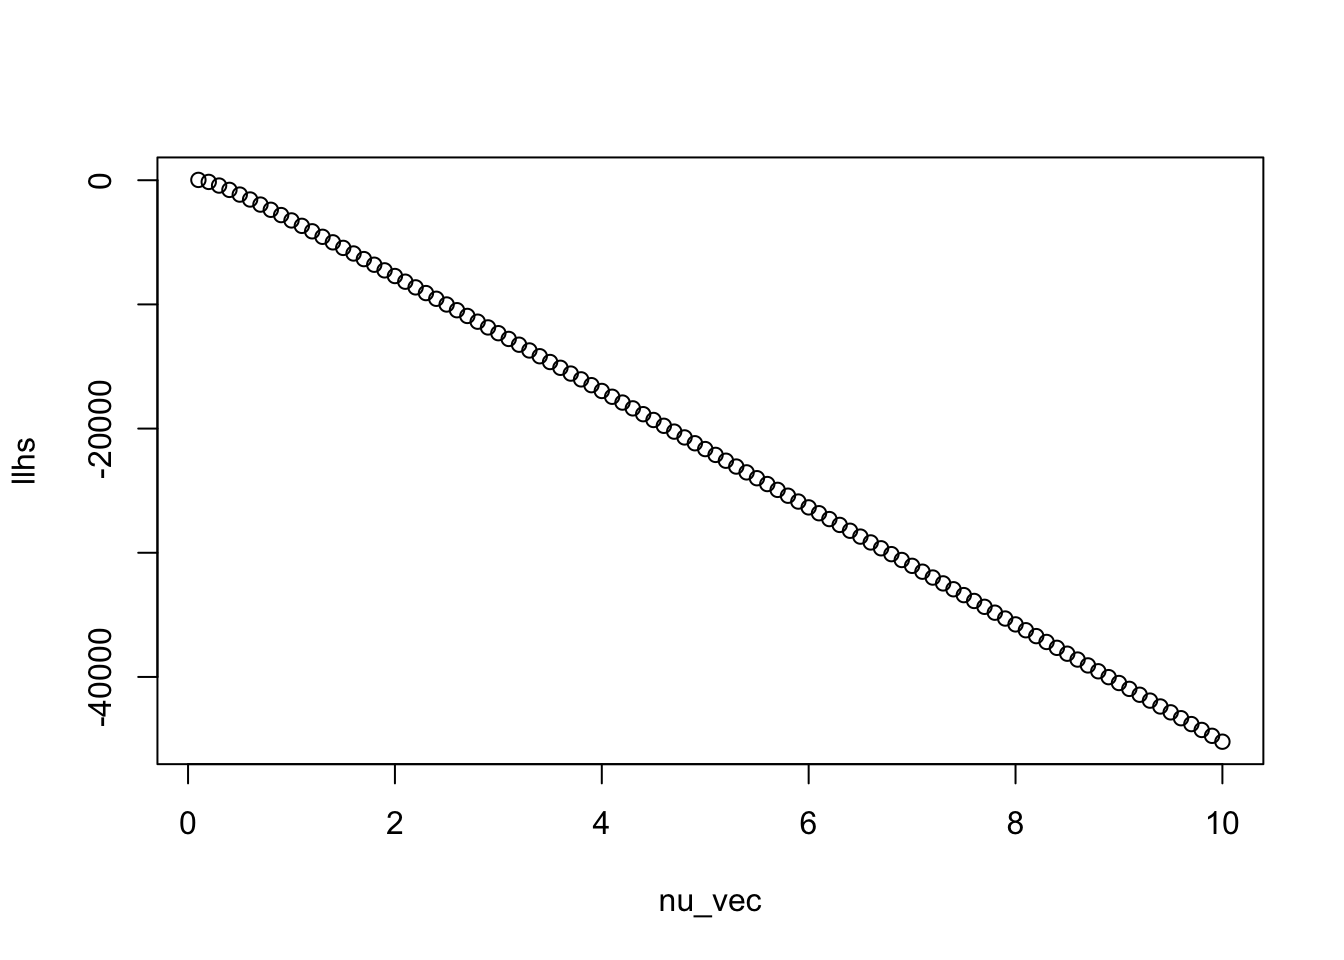
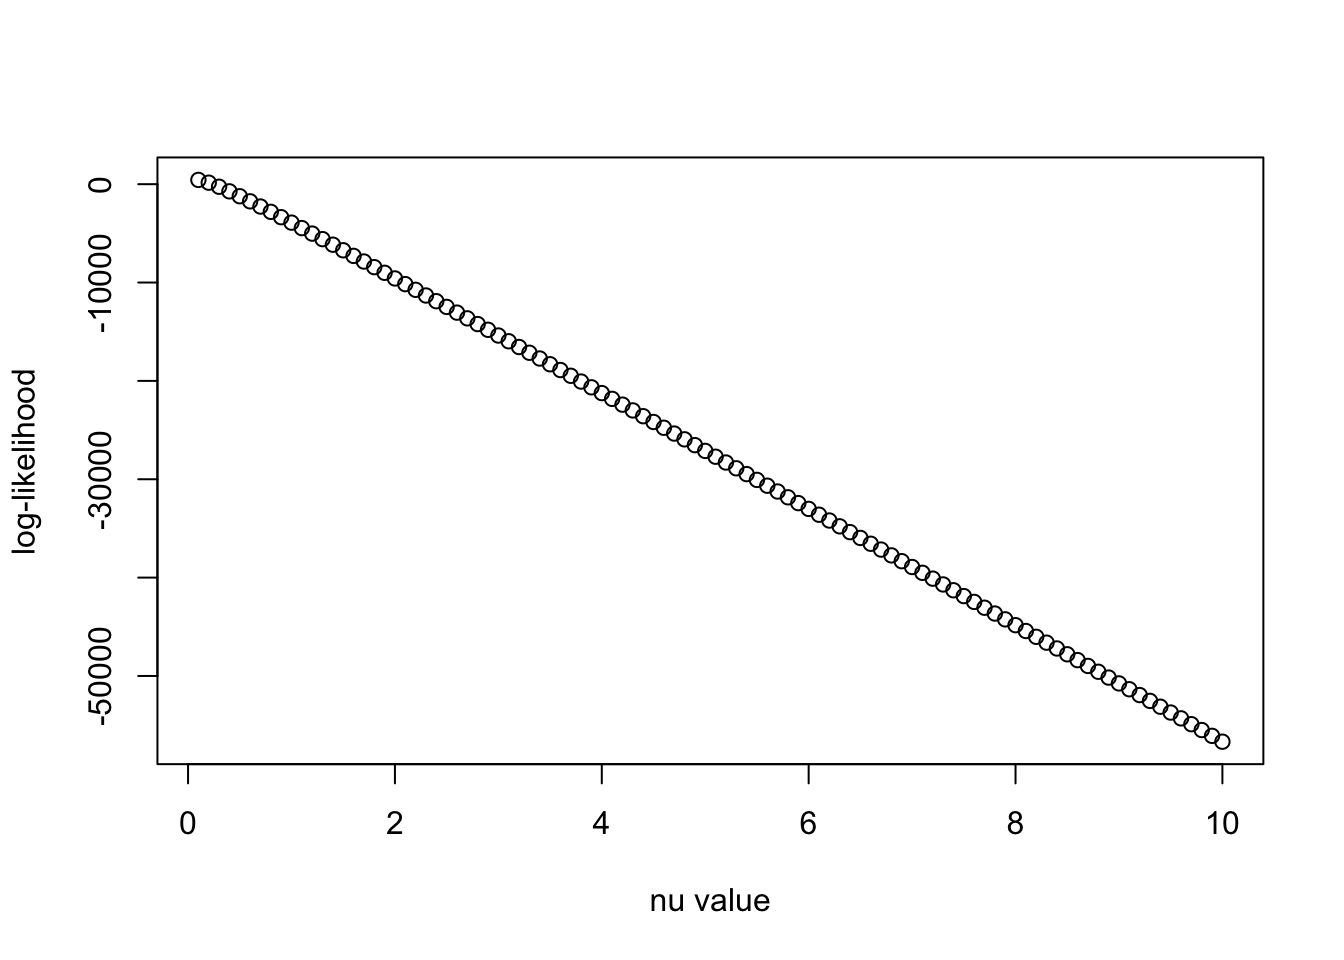
Build site.

diff --git a/docs/investigate-df-nu.html b/docs/investigate-df-nu.html
@@ -359,7 +359,7 @@ div.tocify {
 <p>
 <button type="button" class="btn btn-default btn-workflowr btn-workflowr-report" data-toggle="collapse" data-target="#workflowr-report">
 <span class="glyphicon glyphicon-list" aria-hidden="true"></span>
-workflowr <span class="glyphicon glyphicon-ok text-success"
+workflowr <span class="glyphicon glyphicon-exclamation-sign text-danger"
 aria-hidden="true"></span>
 </button>
 </p>
@@ -370,8 +370,8 @@ aria-hidden="true"></span>
 </li>
 <li>
 <a data-toggle="tab" href="#checks"> Checks <span
-class="glyphicon glyphicon-ok text-success" aria-hidden="true"></span>
-</a>
+class="glyphicon glyphicon-exclamation-sign text-danger"
+aria-hidden="true"></span> </a>
 </li>
 <li>
 <a data-toggle="tab" href="#versions">Past versions</a>
@@ -380,13 +380,13 @@ class="glyphicon glyphicon-ok text-success" aria-hidden="true"></span>
 <div class="tab-content">
 <div id="summary" class="tab-pane fade in active">
 <p>
-<strong>Last updated:</strong> 2025-11-23
+<strong>Last updated:</strong> 2025-11-24
 </p>
 <p>
 <strong>Checks:</strong> <span
-class="glyphicon glyphicon-ok text-success" aria-hidden="true"></span> 7
+class="glyphicon glyphicon-ok text-success" aria-hidden="true"></span> 6
 <span class="glyphicon glyphicon-exclamation-sign text-danger"
-aria-hidden="true"></span> 0
+aria-hidden="true"></span> 1
 </p>
 <p>
 <strong>Knit directory:</strong> <code>Improved_LD_SuSiE/</code> <span
@@ -496,30 +496,56 @@ run.</p>
 <div class="panel panel-default">
 <div class="panel-heading">
 <p class="panel-title">
-<a data-toggle="collapse" data-parent="#workflowr-checks" href="#strongFilepathsstrongrelative">
-<span class="glyphicon glyphicon-ok text-success"
-aria-hidden="true"></span> <strong>File paths:</strong> relative </a>
+<a data-toggle="collapse" data-parent="#workflowr-checks" href="#strongFilepathsstrongabsolute">
+<span class="glyphicon glyphicon-exclamation-sign text-danger"
+aria-hidden="true"></span> <strong>File paths:</strong> absolute </a>
 </p>
 </div>
-<div id="strongFilepathsstrongrelative" class="panel-collapse collapse">
+<div id="strongFilepathsstrongabsolute" class="panel-collapse collapse">
 <div class="panel-body">
-<p>Great job! Using relative paths to the files within your workflowr
-project makes it easier to run your code on other machines.</p>
+<p>
+Using absolute paths to the files within your workflowr project makes it
+difficult for you and others to run your code on a different machine.
+Change the absolute path(s) below to the suggested relative path(s) to
+make your code more reproducible.
+</p>
+<table class="table table-condensed table-hover">
+<thead>
+<tr>
+<th style="text-align:left;">
+absolute
+</th>
+<th style="text-align:left;">
+relative
+</th>
+</tr>
+</thead>
+<tbody>
+<tr>
+<td style="text-align:left;">
+~/Documents/Improved_LD_SuSiE
+</td>
+<td style="text-align:left;">
+.
+</td>
+</tr>
+</tbody>
+</table>
 </div>
 </div>
 </div>
 <div class="panel panel-default">
 <div class="panel-heading">
 <p class="panel-title">
-<a data-toggle="collapse" data-parent="#workflowr-checks" href="#strongRepositoryversionstrongahrefhttpsgithubcomLdo3ImprovedLDSuSiEtree0289377dfc6124387866a62b9477d10752d17465targetblank0289377a">
+<a data-toggle="collapse" data-parent="#workflowr-checks" href="#strongRepositoryversionstrongahrefhttpsgithubcomLdo3ImprovedLDSuSiEtree542074c361a77f90f7ad47d851be0de8cfa21719targetblank542074ca">
 <span class="glyphicon glyphicon-ok text-success"
 aria-hidden="true"></span> <strong>Repository version:</strong>
-<a href="https://github.com/Ldo3/Improved_LD_SuSiE/tree/0289377dfc6124387866a62b9477d10752d17465" target="_blank">0289377</a>
+<a href="https://github.com/Ldo3/Improved_LD_SuSiE/tree/542074c361a77f90f7ad47d851be0de8cfa21719" target="_blank">542074c</a>
 </a>
 </p>
 </div>
 <div
[2 lines of base64/hex data omitted]
 class="panel-collapse collapse">
 <div class="panel-body">
 <p>
@@ -529,7 +555,7 @@ reproducibility.
 </p>
 <p>
 The results in this page were generated with repository version
-<a href="https://github.com/Ldo3/Improved_LD_SuSiE/tree/0289377dfc6124387866a62b9477d10752d17465" target="_blank">0289377</a>.
+<a href="https://github.com/Ldo3/Improved_LD_SuSiE/tree/542074c361a77f90f7ad47d851be0de8cfa21719" target="_blank">542074c</a>.
 See the <em>Past versions</em> tab to see a history of the changes made
 to the R Markdown and HTML files.
 </p>
@@ -545,10 +571,11 @@ were generated:
 <pre><code>
 Ignored files:
     Ignored:    .DS_Store
+    Ignored:    .RData
+    Ignored:    .Rhistory
     Ignored:    analysis/.DS_Store
 
 Unstaged changes:
-    Modified:   analysis/index.Rmd
     Modified:   code_push.R
 
 </code></pre>
@@ -600,6 +627,40 @@ Message
 Rmd
 </td>
 <td>
+<a href="https://github.com/Ldo3/Improved_LD_SuSiE/blob/542074c361a77f90f7ad47d851be0de8cfa21719/analysis/investigate-df-nu.Rmd" target="_blank">542074c</a>
+</td>
+<td>
+dodat
+</td>
+<td>
+2025-11-24
+</td>
+<td>
+wflow_publish(c("analysis/investigate-df-nu.Rmd"))
+</td>
+</tr>
+<tr>
+<td>
+html
+</td>
+<td>
+<a href="https://rawcdn.githack.com/Ldo3/Improved_LD_SuSiE/eba6c9586f05a88cec0cf0dbd0ef6e1dda6fdc7f/docs/investigate-df-nu.html" target="_blank">eba6c95</a>
+</td>
+<td>
+dodat
+</td>
+<td>
+2025-11-23
+</td>
+<td>
+Build site.
+</td>
+</tr>
+<tr>
+<td>
+Rmd
+</td>
+<td>
 <a href="https://github.com/Ldo3/Improved_LD_SuSiE/blob/0289377dfc6124387866a62b9477d10752d17465/analysis/investigate-df-nu.Rmd" target="_blank">0289377</a>
 </td>
 <td>
@@ -619,12 +680,12 @@ add file
 </div>
 </div>
 </div>
-<pre class="r"><code>library(susieR)</code></pre>
+<pre class="r"><code>seed = 4  ## change this value to see other examples
+library(susieR)</code></pre>
 <pre><code>Warning: package &#39;susieR&#39; was built under R version 4.3.3</code></pre>
 <pre class="r"><code>library(Matrix)
-seed = 3
 set.seed(seed)
-
+# setwd(&quot;~/Documents/Improved_LD_SuSiE&quot;)
 gtex = readRDS(&quot;data/Thyroid_ENSG00000132855.rds&quot;)
 maf = apply(gtex, 2, function(x) sum(x)/2/length(x))
 X0 = gtex[, maf &gt; 0.01]
@@ -658,6 +719,8 @@ library(ggplot2)</code></pre>
 <pre class="r"><code>library(reshape2)
 df1 &lt;- melt(R0)
 df2 &lt;- melt(Rp)
+N_in = nrow(X_in)
+N_out = nrow(X_out)
 p1 &lt;- ggplot(df1, aes(Var1, Var2, fill = value)) +
   geom_tile() +
   scale_fill_gradient2(low=&quot;blue&quot;, mid=&quot;white&quot;, high=&quot;red&quot;) +
@@ -671,9 +734,47 @@ p2 &lt;- ggplot(df2, aes(Var1, Var2, fill = value)) +
 library(gridExtra)
 grid.arrange(p1, p2, ncol = 2)</code></pre>
 <p><img src="figure/investigate-df-nu.Rmd/unnamed-chunk-1-1.png" width="672" style="display: block; margin: auto;" /></p>
+<p>
+<button type="button" class="btn btn-default btn-xs btn-workflowr btn-workflowr-fig" data-toggle="collapse" data-target="#fig-unnamed-chunk-1-1">
+Past versions of unnamed-chunk-1-1.png
+</button>
+</p>
+<div id="fig-unnamed-chunk-1-1" class="collapse">
+<div class="table-responsive">
+<table class="table table-condensed table-hover">
+<thead>
+<tr>
+<th>
+Version
+</th>
+<th>
+Author
+</th>
+<th>
+Date
+</th>
+</tr>
+</thead>
+<tbody>
+<tr>
+<td>
+<a href="https://github.com/Ldo3/Improved_LD_SuSiE/blob/eba6c9586f05a88cec0cf0dbd0ef6e1dda6fdc7f/docs/figure/investigate-df-nu.Rmd/unnamed-chunk-1-1.png" target="_blank">eba6c95</a>
+</td>
+<td>
+dodat
+</td>
+<td>
+2025-11-23
+</td>
+</tr>
+</tbody>
+</table>
+</div>
+</div>
 <p>The in-sample R0 and out-of-sample Rp look pretty similar. Now let us
-plot the log density <span class="math inline">\(IW(R0 | \nu Rp, \nu + p
-+ 1)\)</span> for various <span class="math inline">\(\nu\)</span></p>
+plot the log density <span class="math inline">\(IW(R_0 | \nu R&#39;,
+\nu + p + 1)\)</span> for various <span
+class="math inline">\(\nu\)</span></p>
 <pre class="r"><code>#### log IW(R0 | nu0 * Rp, nu0 + J + 1)
 log_multigamma_vec &lt;- function(a, p) {
   # vectorized multivariate gamma
@@ -703,19 +804,86 @@ log_iw &lt;- function(R0, Rp, nu_vec) {
 
 nu_vec = c(1:100) / 10
 llhs = log_iw(R0, Rp, nu_vec)
-plot(nu_vec, llhs)</code></pre>
+plot(nu_vec, llhs, xlab = &quot;nu value&quot;, ylab = &quot;log-likelihood&quot;)</code></pre>
 <p><img src="figure/investigate-df-nu.Rmd/unnamed-chunk-2-1.png" width="672" style="display: block; margin: auto;" /></p>
+<p>
+<button type="button" class="btn btn-default btn-xs btn-workflowr btn-workflowr-fig" data-toggle="collapse" data-target="#fig-unnamed-chunk-2-1">
+Past versions of unnamed-chunk-2-1.png
+</button>
+</p>
+<div id="fig-unnamed-chunk-2-1" class="collapse">
+<div class="table-responsive">
+<table class="table table-condensed table-hover">
+<thead>
+<tr>
+<th>
+Version
+</th>
+<th>
+Author
+</th>
+<th>
+Date
+</th>
+</tr>
+</thead>
+<tbody>
+<tr>
+<td>
+<a href="https://github.com/Ldo3/Improved_LD_SuSiE/blob/eba6c9586f05a88cec0cf0dbd0ef6e1dda6fdc7f/docs/figure/investigate-df-nu.Rmd/unnamed-chunk-2-1.png" target="_blank">eba6c95</a>
+</td>
+<td>
+dodat
+</td>
+<td>
+2025-11-23
+</td>
+</tr>
+</tbody>
+</table>
+</div>
+</div>
 <p>The trace term is too large compared to other term:</p>
 <pre class="r"><code>R0 = R0 + 1e-6 * diag(rep(1, p))
 Rp = Rp + 1e-6 * diag(rep(1, p))
 print(sum(t(Rp) * solve(R0))) ## trace term</code></pre>
-<pre><code>[1] 9529.681</code></pre>
+<pre><code>[1] 11942.6</code></pre>
 <pre class="r"><code>determinant(R0, logarithm = TRUE)$modulus  ## log det term</code></pre>
-<pre><code>[1] -182.3425
+<pre><code>[1] -202.9556
 attr(,&quot;logarithm&quot;)
 [1] TRUE</code></pre>
 <p>This can be because both matrix R0 and Rp are almost low-rank (due to
 LD).</p>
+<p>Let us try the full-rank covariance matrix:</p>
+<pre class="r"><code>X_in = matrix(rnorm(N_in * p), nrow=N_in, ncol=p)
+X_out = matrix(rnorm(N_out * p), nrow=N_out, ncol=p)
+Rp = cov(X_out)
+R0 = cov(X_in)
+library(ggplot2)
+library(reshape2)
+df1 &lt;- melt(R0)
+df2 &lt;- melt(Rp)
+N_in = nrow(X_in)
+N_out = nrow(X_out)
+p1 &lt;- ggplot(df1, aes(Var1, Var2, fill = value)) +
+  geom_tile() +
+  scale_fill_gradient2(low=&quot;blue&quot;, mid=&quot;white&quot;, high=&quot;red&quot;) +
+  coord_fixed() +
+  ggtitle(paste0(&quot;In-sample Cov, sample =&quot;, nrow(X_in)))
+p2 &lt;- ggplot(df2, aes(Var1, Var2, fill = value)) +
+  geom_tile() +
+  scale_fill_gradient2(low=&quot;blue&quot;, mid=&quot;white&quot;, high=&quot;red&quot;) +
+  coord_fixed() +
+  ggtitle(paste0(&quot;Out-of-sample Cov, sample =&quot;, nrow(X_out)))
+library(gridExtra)
+grid.arrange(p1, p2, ncol = 2)</code></pre>
+<p><img src="figure/investigate-df-nu.Rmd/unnamed-chunk-4-1.png" width="672" style="display: block; margin: auto;" /></p>
+<pre class="r"><code>nu_vec = c(1:100) 
+llhs = log_iw(R0, Rp, nu_vec)
+plot(nu_vec, llhs, xlab = &quot;nu value&quot;, ylab = &quot;log-likelihood&quot;)</code></pre>
+<p><img src="figure/investigate-df-nu.Rmd/unnamed-chunk-5-1.png" width="672" style="display: block; margin: auto;" /></p>
+<pre class="r"><code>print(paste0(&quot;the optimal nu for full-rank R is &quot;, nu_vec[which.max(llhs)]))</code></pre>
+<pre><code>[1] &quot;the optimal nu for full-rank R is 58&quot;</code></pre>
 <br>
 <p>
 <button type="button" class="btn btn-default btn-workflowr btn-workflowr-sessioninfo" data-toggle="collapse" data-target="#workflowr-sessioninfo" style="display: block;">
@@ -759,8 +927,8 @@ loaded via a namespace (and not attached):
 [37] lifecycle_1.0.3    git2r_0.36.2       stringr_1.5.0      fs_1.6.3          
 [41] irlba_2.3.5.1      pkgconfig_2.0.3    callr_3.7.3        pillar_1.9.0      
 [45] bslib_0.5.1        later_1.4.2        gtable_0.3.6       glue_1.6.2        
-[49] Rcpp_1.1.0         highr_0.10         xfun_0.41          tibble_3.2.1      
-[53] tidyselect_1.2.0   rstudioapi_0.15.0  knitr_1.45         farver_2.1.1      
+[49] Rcpp_1.1.0         xfun_0.52          tibble_3.2.1       tidyselect_1.2.0  
+[53] highr_0.10         rstudioapi_0.15.0  knitr_1.45         farver_2.1.1      
 [57] htmltools_0.5.7    labeling_0.4.3     rmarkdown_2.25     compiler_4.3.2    
 [61] getPass_0.2-4     </code></pre>
 </div>
